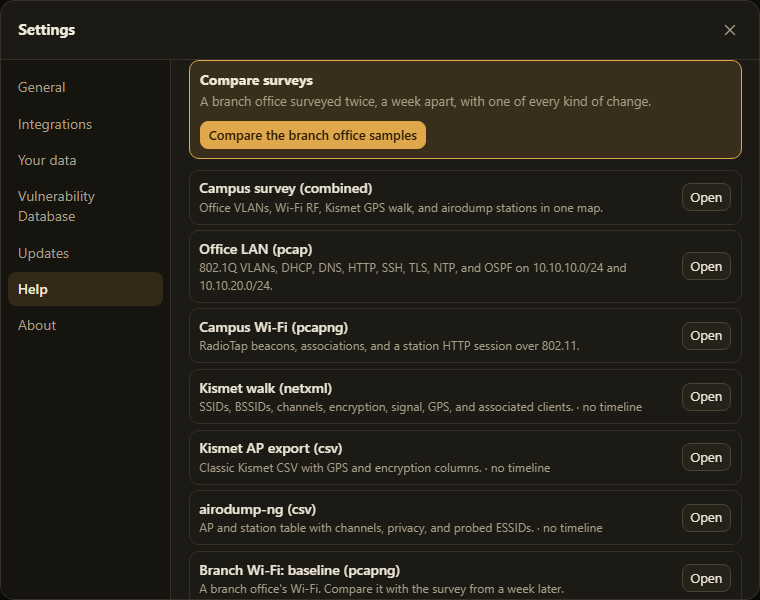
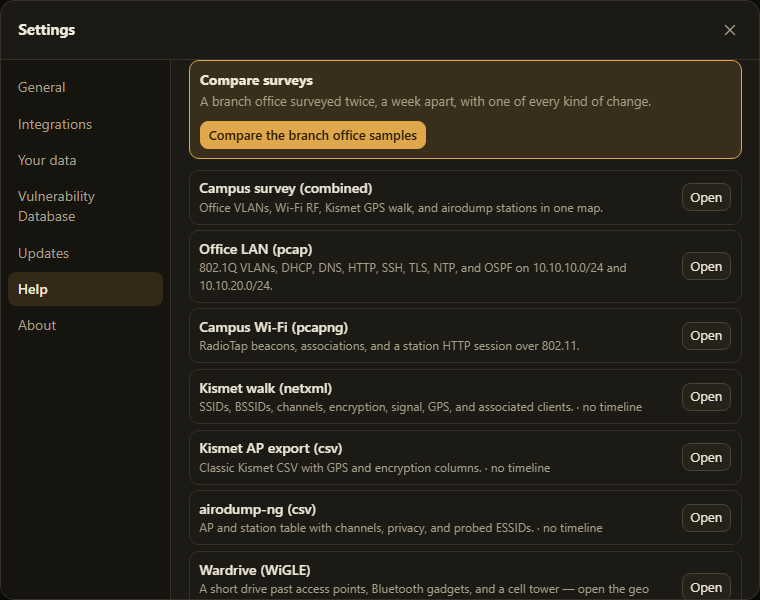
Add a bundled Wardrive (WiGLE) demo
A short WiGLE wardrive sample so the geo map can be tried without your own file:
a drive past five access points, two Bluetooth gadgets, and a cell tower, each
heard from several points along the route with signal rising and falling by
distance — so the map shows real tracks and a signal-weighted estimated location
per device.

- generate_samples.wigle_wardrive() writes data/wardrive.wiglewifi.csv.
- Registered as the "Wardrive (WiGLE)" sample (Settings → Help).
- docs/screenshots.py captures the geo map from it (offline, no tiles);
  user guide and how-to point to the demo and show the image.

pytest 104 passed (the demo parses with ap/bluetooth/cell kinds, tracks, times,
and estimates).

Changed region(s): [[0.2421, 0.93, 0.8474, 0.99], [0.9079, 0.93, 0.9684, 0.99]]

diff --git a/src/netseer/generate_samples.py b/src/netseer/generate_samples.py
@@ -2,6 +2,8 @@
 
 from __future__ import annotations
 
+import math
+from datetime import datetime, timezone
 from pathlib import Path
 
 from scapy.all import (  # type: ignore[import-untyped]
@@ -499,6 +501,66 @@ def _timed(pkts: list, offset: float = 0.0) -> list:
     return pkts
 
 
+def wigle_wardrive() -> str:
+    """A short WiGLE wardrive: a drive past a few access points, Bluetooth gadgets, and a cell tower.
+
+    Each transmitter is heard from several points along the route with the signal rising and falling
+    by distance, so the geo map shows real tracks and a signal-weighted estimated location per device.
+    """
+    # Access points at fixed real locations (near the Kismet sample's area).
+    aps = [
+        ("aa:bb:cc:00:00:01", 37.77470, -122.41980, "Blue Bottle", 6, 2437, "[WPA2-PSK-CCMP][RSN-PSK-CCMP][ESS]"),
+        ("aa:bb:cc:00:00:02", 37.77455, -122.41930, "CityWiFi-Free", 11, 2462, "[ESS]"),
+        ("aa:bb:cc:00:00:03", 37.77500, -122.41905, "Printer_5G", 149, 5745, "[WPA2-PSK-CCMP][RSN-PSK-CCMP][ESS][WPS]"),
+        ("aa:bb:cc:00:00:04", 37.77520, -122.41860, "Netgear-Guest", 1, 2412, "[WPA2-PSK-CCMP][ESS]"),
+        ("aa:bb:cc:00:00:05", 37.77445, -122.41875, "oldrouter", 3, 2422, "[WEP][ESS]"),
+    ]
+    bts = [
+        ("a2:14:22:00:00:11", 37.77472, -122.41975, "Fitbit Charge", "BLE", "Misc"),
+        ("b6:30:9c:00:00:22", 37.77458, -122.41928, "", "BT", "Uncategorized;10"),
+    ]
+    cell = ("310260_41021_118273301", 37.78100, -122.41500, "T-Mobile USA", "LTE", "310260", 1275)
+
+    # The drive: east along the block, then curving north. One point every 20 s.
+    route = []
+    lat, lon, t = 37.77460, -122.42010, SAMPLE_START
+    for i in range(16):
+        lon += 0.00022
+        if i >= 8:
+            lat += 0.00016
+            lon -= 0.00004
+        route.append((round(lat, 6), round(lon, 6), t + i * 20.0))
+
+    def dist_m(la, lo, la2, lo2):
+        return math.hypot((lo2 - lo) * 111_320.0 * math.cos(math.radians(la)), (la2 - la) * 111_320.0)
+
+    def rssi(d):  # stronger up close; log-distance falloff, clamped to a believable range
+        return int(max(-95, min(-30, round(-40 - 22 * math.log10(max(1.0, d / 4.0))))))
+
+    def when(ts):
+        return datetime.fromtimestamp(ts, tz=timezone.utc).strftime("%Y-%m-%d %H:%M:%S")
+
+    rows = []
+    for la, lo, ts in route:
+        for mac, ala, alo, ssid, ch, fr, auth in aps:
+            d = dist_m(la, lo, ala, alo)
+            if d <= 150:
+                rows.append(f"{mac},{ssid},{auth},{when(ts)},{ch},{fr},{rssi(d)},{la:.6f},{lo:.6f},12.0,5.0,,,WIFI")
+        for mac, bla, blo, name, typ, cls in bts:
+            d = dist_m(la, lo, bla, blo)
+            if d <= 70:
+                fr = "7936" if typ == "BT" else ""
+                rows.append(f"{mac},{name},{cls},{when(ts)},,{fr},{rssi(d)},{la:.6f},{lo:.6f},12.0,5.0,,,{typ}")
+        cid, cla, clo, carrier, radio, plmn, earfcn = cell
+        rows.append(f"{cid},{carrier},{radio};{plmn},{when(ts)},{earfcn},{earfcn},{rssi(dist_m(la, lo, cla, clo))},{la:.6f},{lo:.6f},12.0,5.0,,,{radio}")
+
+    header = (
+        "WigleWifi-1.6,appRelease=NetSeer demo,model=demo,release=16,device=demo,display=demo,board=demo,brand=demo\n"
+        "MAC,SSID,AuthMode,FirstSeen,Channel,Frequency,RSSI,CurrentLatitude,CurrentLongitude,AltitudeMeters,AccuracyMeters,RCOIs,MfgrId,Type\n"
+    )
+    return header + "\n".join(rows) + "\n"
+
+
 def write_all(dest: Path | None = None) -> Path:
     dest = dest or DATA
     dest.mkdir(parents=True, exist_ok=True)
@@ -522,6 +584,7 @@ def write_all(dest: Path | None = None) -> Path:
     (dest / "kismet-walk.netxml").write_text(kismet_netxml(), encoding="utf-8")
     (dest / "kismet-aps.csv").write_text(kismet_csv(), encoding="utf-8")
     (dest / "airodump-ng.csv").write_text(airodump_csv(), encoding="utf-8")
+    (dest / "wardrive.wiglewifi.csv").write_text(wigle_wardrive(), encoding="utf-8")
     return dest
 
 

diff --git a/docs/screenshots.py b/docs/screenshots.py
@@ -430,6 +430,19 @@ def capture(url: str, channel: str | None) -> list[str]:
         shots.save("settings-security", selectors=["#settings-dialog"], pad=0)
         page.evaluate("() => el('settings-dialog').close()")
 
+        # Geo map: the wardrive demo on a real-world map (offline, no street tiles).
+        page.evaluate("() => { const t = el('toast'); t.classList.add('hidden'); try { t.hidePopover(); } catch {} }")
+        page.evaluate("() => openDemo('wardrive')")
+        page.wait_for_function("() => state.graph && state.graph.nodes.some((n) => (n.track || []).length)")
+        page.wait_for_timeout(300)
+        page.evaluate("() => { el('geo-path').checked = true; openGeoMap(); }")
+        page.wait_for_function("() => typeof geo !== 'undefined' && geo.features && geo.features.getLayers().length > 0")
+        page.wait_for_timeout(600)
+        page.evaluate("() => { if (geo.map) { geo.map.invalidateSize(); renderGeo(true); } }")
+        page.wait_for_timeout(500)
+        shots.save("geo-map", selectors=["#geo-view"], pad=0)
+        page.evaluate("() => closeGeoMap()")
+
         browser.close()
         return shots.taken
 

diff --git a/tests/test_netseer.py b/tests/test_netseer.py
@@ -20,6 +20,16 @@ def test_samples_exist_after_generate(tmp_path):
     dest = write_all(tmp_path)
     assert (dest / "office-lan.pcap").stat().st_size > 0
     assert (dest / "wifi-campus.pcapng").stat().st_size > 0
+    assert (dest / "wardrive.wiglewifi.csv").stat().st_size > 0
+
+
+def test_wardrive_demo_has_kinds_tracks_and_estimates():
+    if not (DATA_DIR / "wardrive.wiglewifi.csv").exists():
+        write_all(DATA_DIR)
+    g = ingest_files(files_for_sample("wardrive"))
+    assert {n.kind for n in g.nodes} >= {"ap", "bluetooth", "cell"}
+    assert any(n.track for n in g.nodes) and all(n.seen for n in g.nodes)
+    assert any(n.extra.get("est_location") for n in g.nodes)
 
 
 def test_office_lan_has_ports_and_services():

diff --git a/src/netseer/samples.py b/src/netseer/samples.py
@@ -56,6 +56,13 @@ SAMPLES: list[dict[str, Any]] = [
         "files": ["airodump-ng.csv"],
     },
     {
+        "id": "wardrive",
+        "name": "Wardrive (WiGLE)",
+        "kind": "wigle-csv",
+        "summary": "A short drive past access points, Bluetooth gadgets, and a cell tower — open the geo map to see tracks and estimated locations.",
+        "files": ["wardrive.wiglewifi.csv"],
+    },
+    {
         "id": "branch-baseline",
         "name": "Branch Wi-Fi: baseline (pcapng)",
         "kind": "pcapng",

diff --git a/docs/user-guide.md b/docs/user-guide.md
@@ -286,6 +286,10 @@ When a survey has GPS — Kismet logs, and WiGLE or Craxiom wardrives — the **
 - Focused on one device, each sighting is a dot joined in the order it was seen, with the estimate marked.
 - **Operator path** traces the route the survey drove; the **time** slider replays it; and you can show the **whole capture** at once or switch to **Added devices** to build the map up with **Show on map** as you go.
 
+Try it with the **Wardrive (WiGLE)** sample in **Settings → Help**.
+
+![The wardrive sample on the geo map: access points, Bluetooth, and a cell tower with their estimated-location spread circles, and the operator's path dashed through them](images/geo-map.png)
+
 ## Export diagrams and files
 
 ![Export menu: draw.io diagram, Visio drawing, Visio XML, and Report](images/export-menu.png)

diff --git a/docs/netseer-how-to.md b/docs/netseer-how-to.md
@@ -285,6 +285,8 @@ When a survey has GPS (Kismet logs, WiGLE and Craxiom wardrives), the **map-pin 
 - **Time** slider: drag to reveal sightings up to a chosen time and replay the drive.
 - **Whole capture** shows every located device; switch to **Added devices** to start empty and build the map up with **Show on map** as you go.
 
+Try it with the **Wardrive (WiGLE)** sample under **Settings → Help**.
+
 ---
 
 ## Layers
